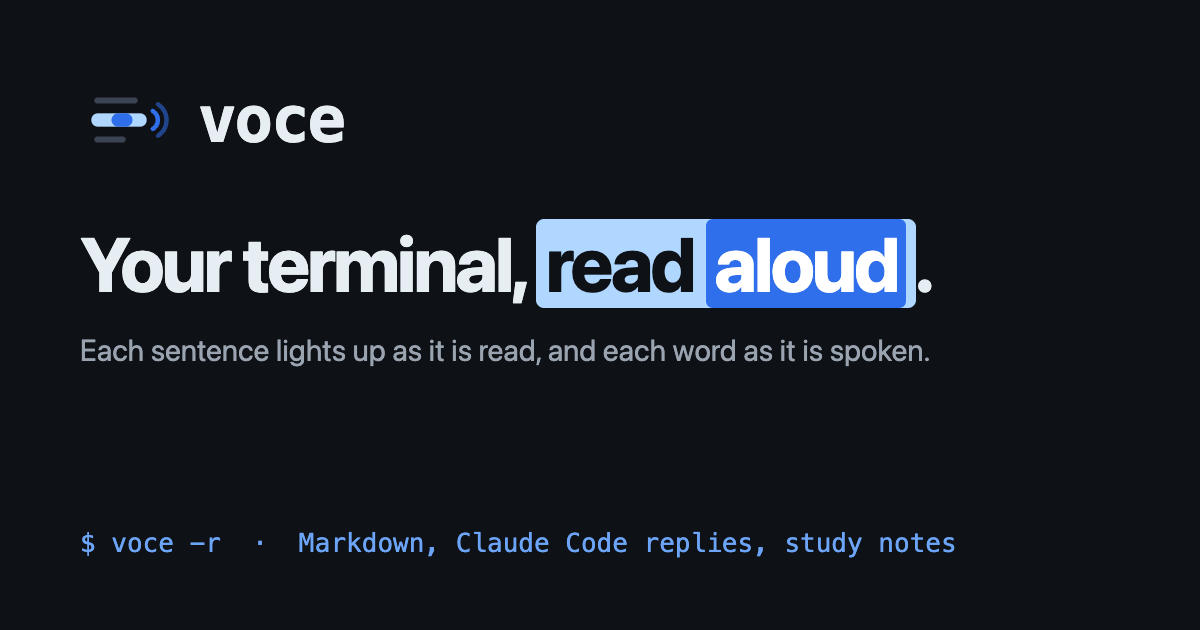
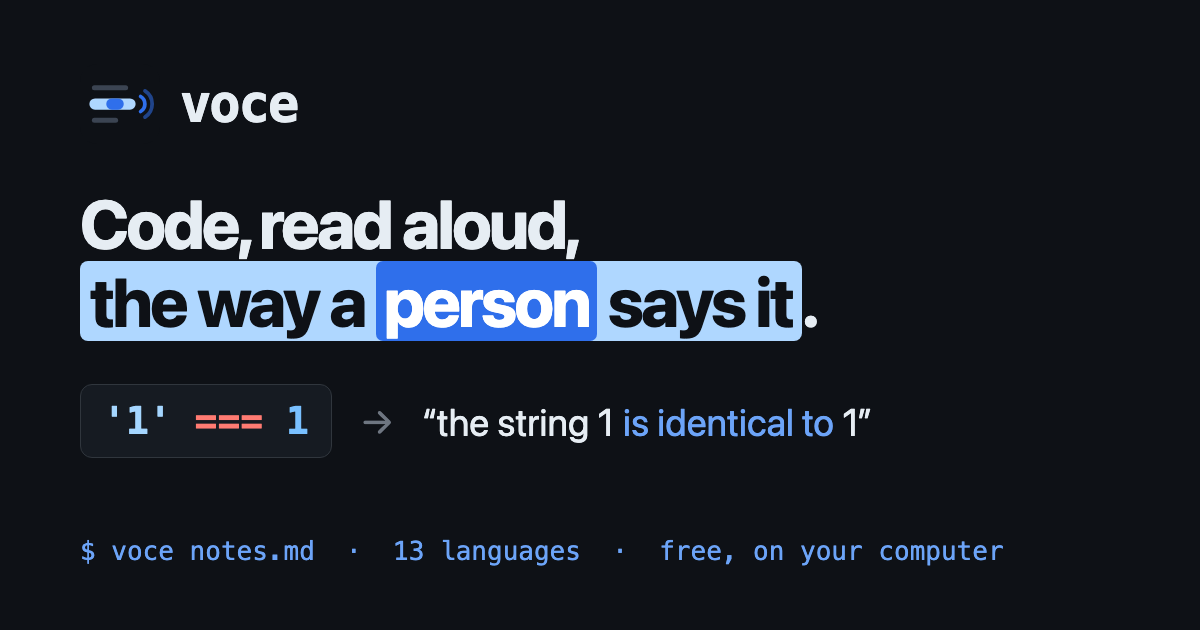
Lead the link preview with code read aloud: '1' === 1 heard as "the string 1 is identical to 1" (#32)

diff --git a/docs/assets/src/og.html b/docs/assets/src/og.html
@@ -1,16 +1,22 @@
 <!doctype html><html><head><meta charset="utf-8"><style>
 html,body{margin:0;width:1200px;height:630px;background:#0E1116;color:#E6EDF3;font-family:-apple-system,BlinkMacSystemFont,"Segoe UI",sans-serif;overflow:hidden}
-.wrap{padding:72px 80px;display:flex;flex-direction:column;height:100%;box-sizing:border-box}
-.brand{display:flex;align-items:center;gap:22px;font:700 64px ui-monospace,"SF Mono",Menlo,monospace;letter-spacing:-2px}
-.brand img{width:96px;height:96px}
-h1{font-size:76px;line-height:1.05;letter-spacing:-2.5px;margin:56px 0 0;font-weight:750}
+.wrap{padding:64px 80px;display:flex;flex-direction:column;height:100%;box-sizing:border-box}
+.brand{display:flex;align-items:center;gap:20px;font:700 52px ui-monospace,"SF Mono",Menlo,monospace;letter-spacing:-2px}
+.brand img{width:80px;height:80px}
+h1{font-size:68px;line-height:1.15;letter-spacing:-2.5px;margin:40px 0 0;font-weight:750}
 .said{background:#AFD7FF;color:#0E1116;padding:0 10px;border-radius:8px}
 .said b{background:#2F6FEB;color:#fff;padding:0 8px;border-radius:7px;font-weight:inherit}
-p{font-size:30px;color:#9AA4B0;margin:28px 0 0}
+.line{margin-top:44px;display:flex;align-items:center;gap:28px;font-size:38px}
+.line code{font:600 38px ui-monospace,"SF Mono",Menlo,monospace;background:#161B22;border:1px solid #30363D;border-radius:12px;padding:14px 22px}
+.s{color:#A5D6FF}.o{color:#FF7B72}.n{color:#79C0FF}
+.arrow{color:#6E7681}
+.hear{color:#E6EDF3}
+.hear i{font-style:normal;color:#6CA4F8}
 .foot{margin-top:auto;font:26px ui-monospace,"SF Mono",Menlo,monospace;color:#6CA4F8}
 </style></head><body><div class="wrap">
 <div class="brand"><img src="../logo.svg">voce</div>
-<h1>Your terminal, <span class="said">read <b>aloud</b></span>.</h1>
-<p>Each sentence lights up as it is read, and each word as it is spoken.</p>
-<div class="foot">$ voce -r &nbsp;·&nbsp; Markdown, Claude Code replies, study notes</div>
+<h1>Code, read aloud,<br><span class="said">the way a <b>person</b> says it</span>.</h1>
+<div class="line"><code><span class="s">'1'</span> <span class="o">===</span> <span class="n">1</span></code><span class="arrow">→</span>
+<span class="hear">“the string 1 <i>is identical to</i> 1”</span></div>
+<div class="foot">$ voce notes.md &nbsp;·&nbsp; 13 languages &nbsp;·&nbsp; free, on your computer</div>
 </div></body></html>

diff --git a/site/index.html b/site/index.html
@@ -11,7 +11,7 @@
 <meta property="og:type" content="website">
 <meta property="og:title" content="voce · Markdown and code, read aloud">
 <meta property="og:description" content="Hear code the way a person says it, with each language's real operator names. Each word lights up as it is spoken. Free, and it runs on your computer.">
-<meta property="og:image" content="https://jaystewartuk.github.io/voce/assets/og.png">
+<meta property="og:image" content="https://jaystewartuk.github.io/voce/assets/og.png?v=2">
 <meta property="og:url" content="https://jaystewartuk.github.io/voce/">
 <meta name="twitter:card" content="summary_large_image">
 <style>
